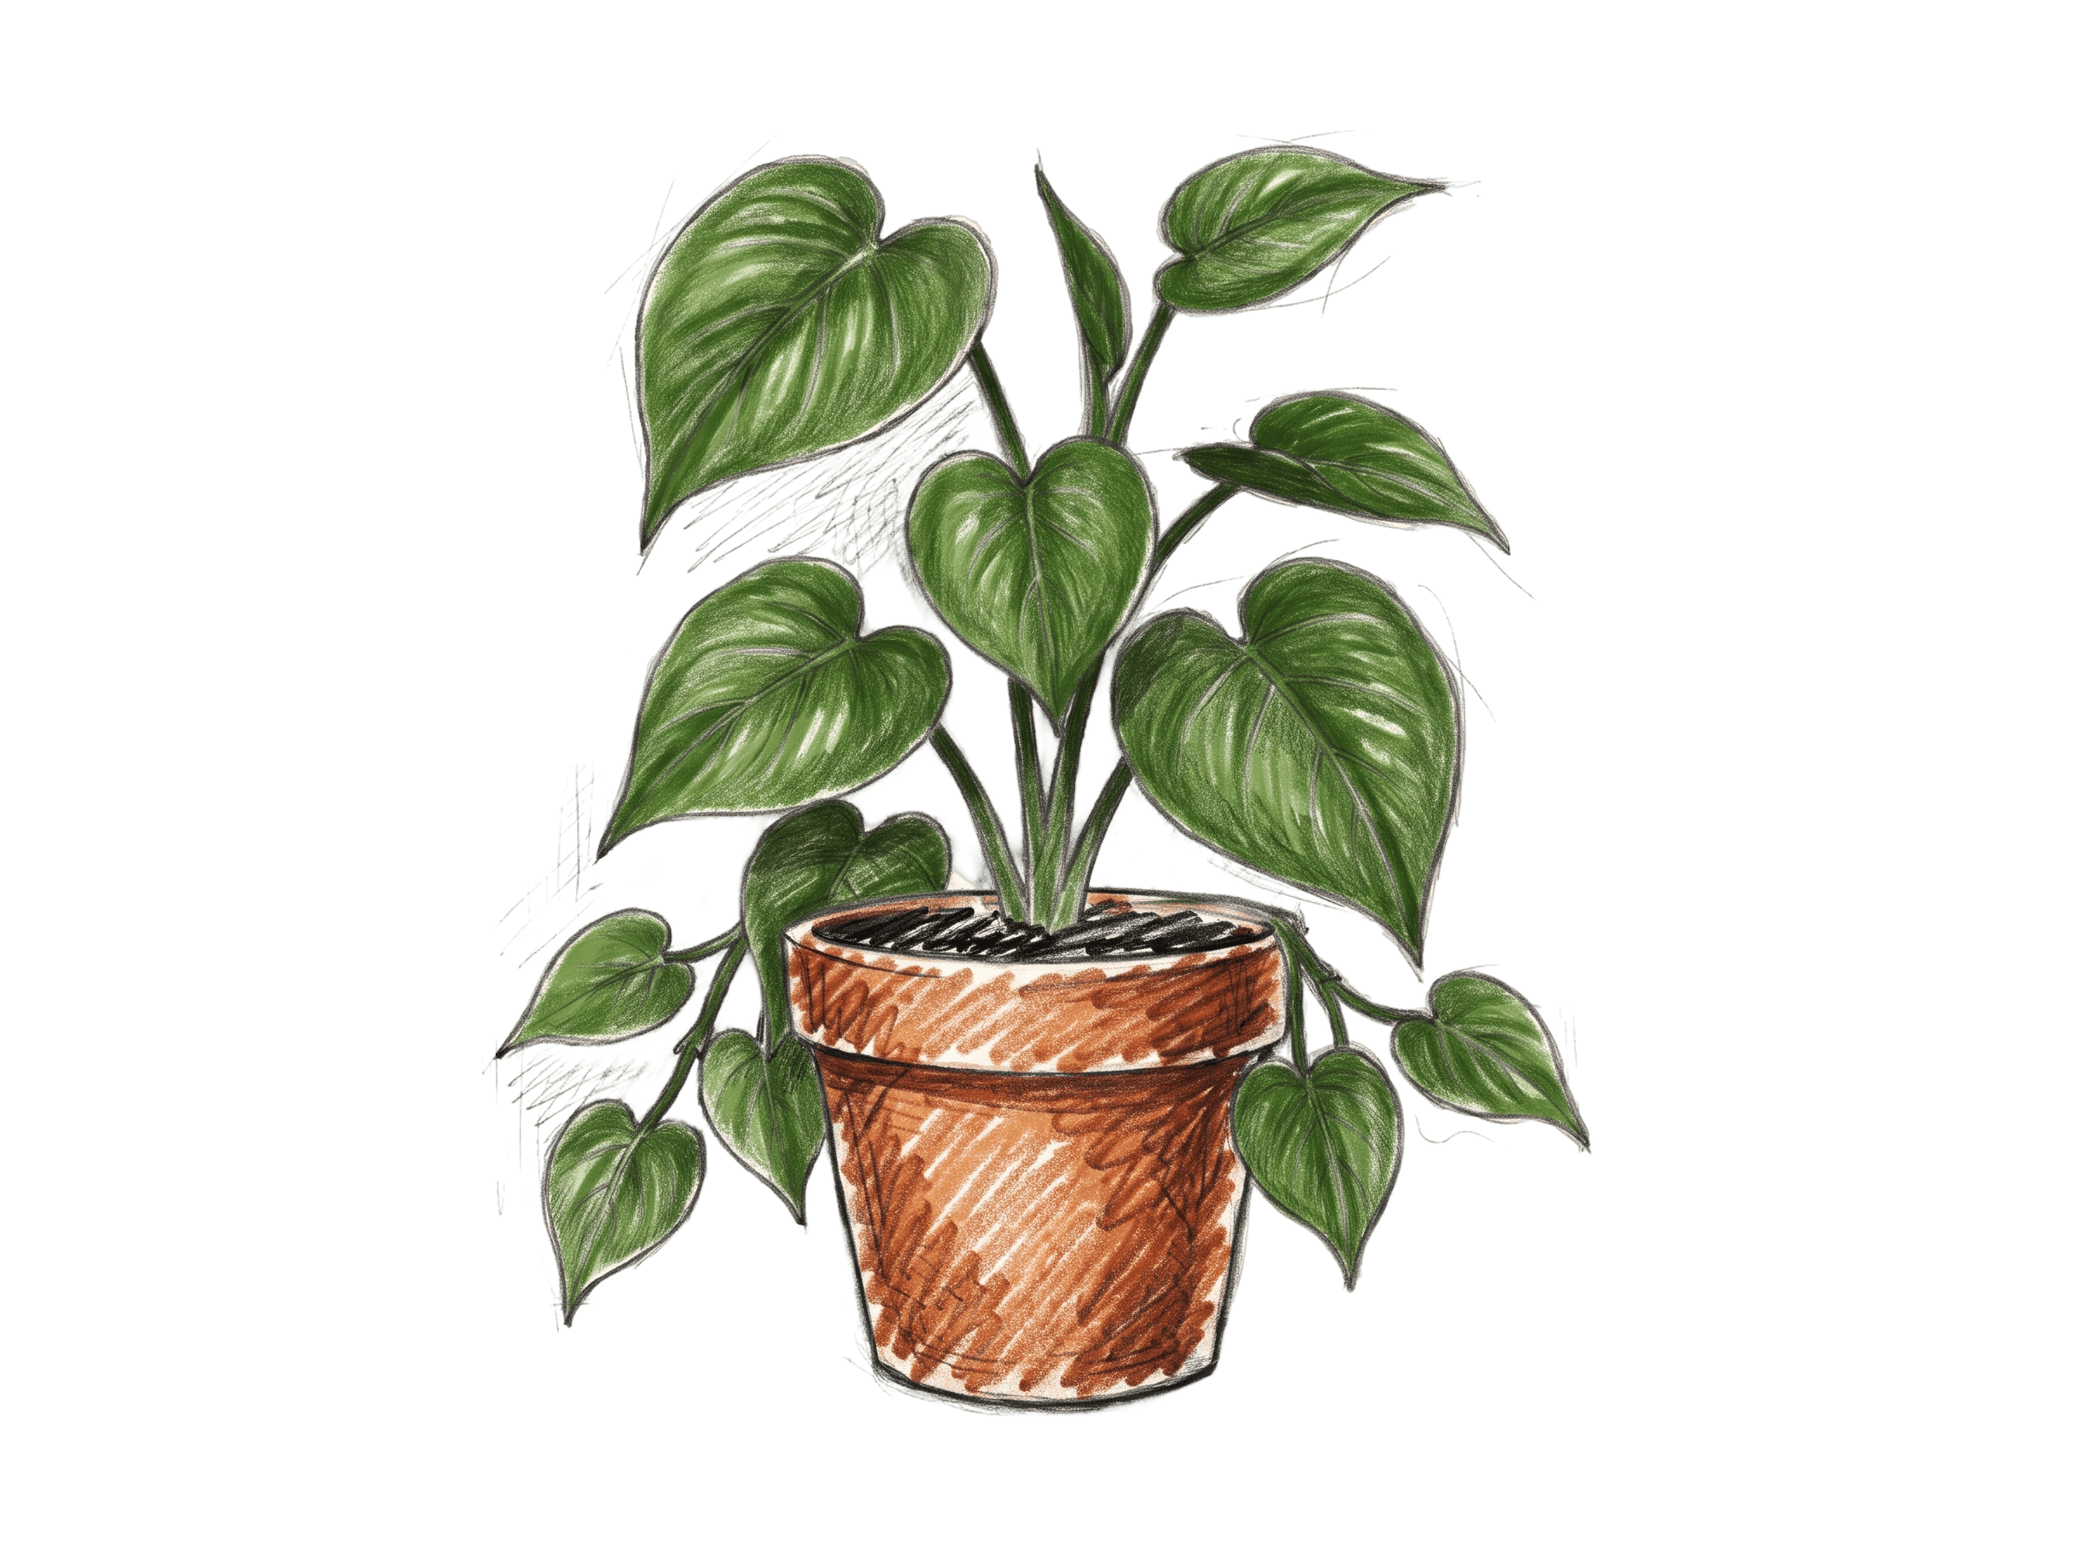
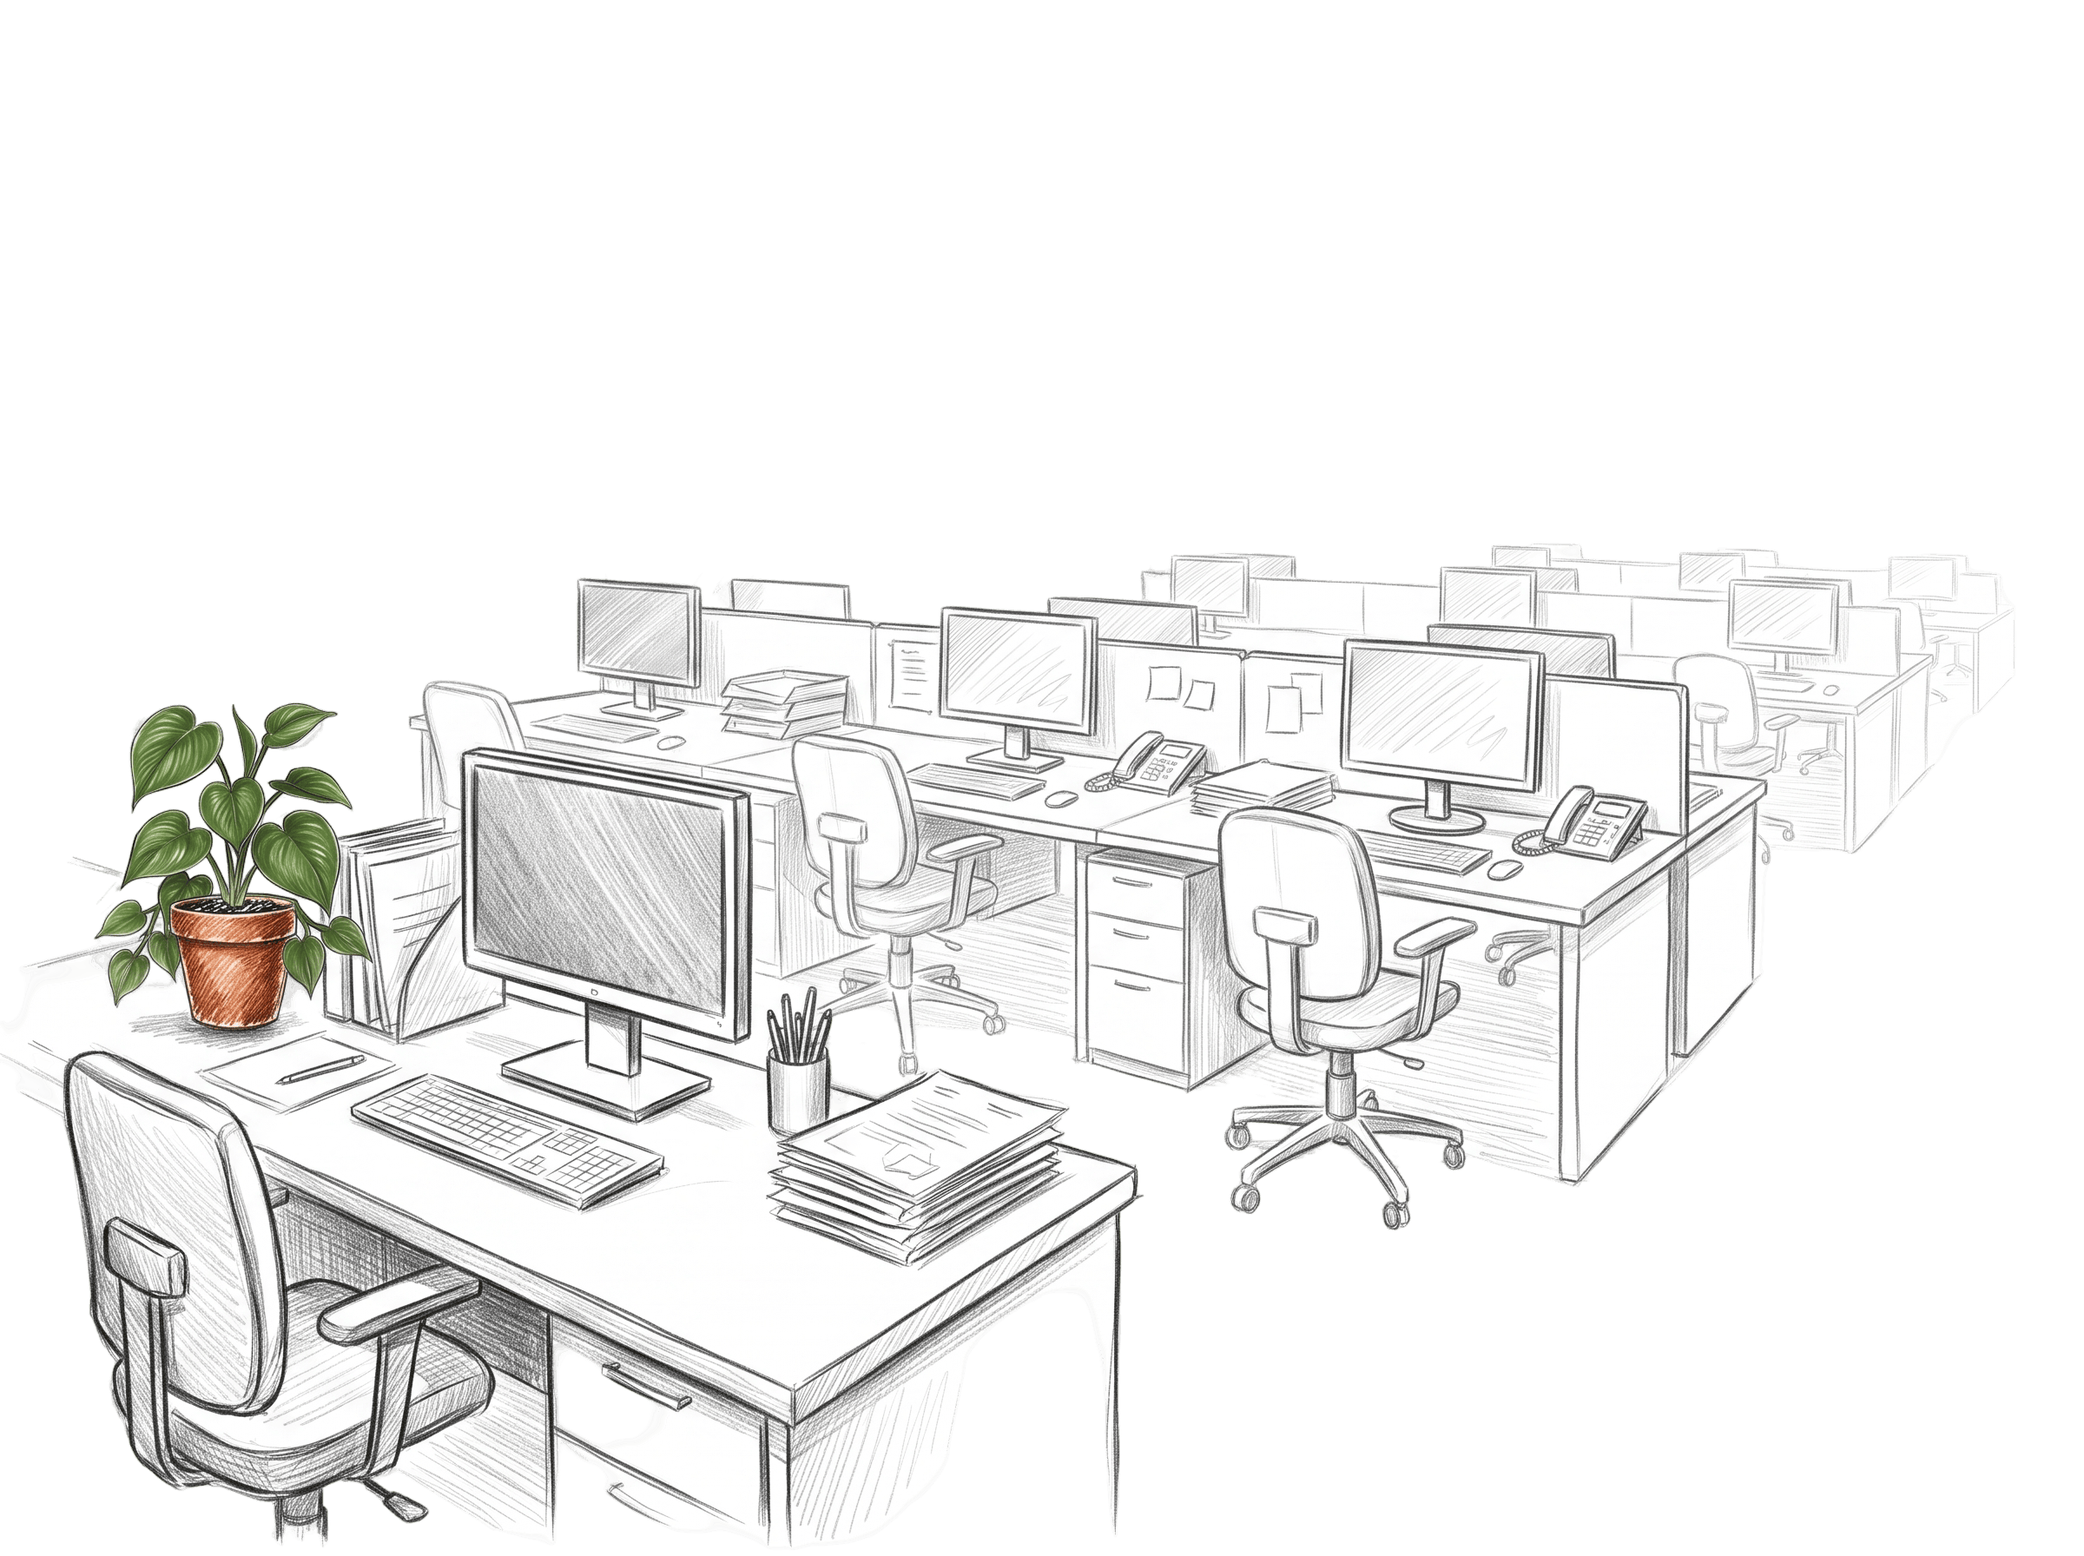
feat: add landing page view, hero components, and global styles

diff --git a/src/features/landing/components/OrganicTextReveal.tsx b/src/features/landing/components/OrganicTextReveal.tsx
@@ -1,7 +1,7 @@
 'use client';
 
-import React, { useEffect, useMemo, useState } from 'react';
-import { useAnimate, useReducedMotion, stagger, type AnimationPlaybackControls } from 'framer-motion';
+import React, { useMemo } from 'react';
+import { motion, useReducedMotion, type Variants } from 'framer-motion';
 
 export type WordToken = {
   raw: string;
@@ -11,9 +11,10 @@ export type WordToken = {
 };
 
 export type TimelineConfig = {
-  targetDuration?: number; // Target total sequence duration in seconds (default: 3.5s)
-  charDuration?: number;   // Single character fade-in duration (default: 0.3s)
-  charStagger?: number;    // Stagger delay between characters
+  targetDuration?: number; // Target total sequence duration in seconds (default: 1.5s)
+  charDuration?: number;   // Single character fade-in duration (default: 0.15s)
+  charStagger?: number;    // Stagger delay between characters (default: 0.03s)
+  staggerChildren?: number;// Stagger delay alias
   totalDuration?: number;  // Backwards-compatible alias for targetDuration
   totalChars?: number;     // Optional character count
 };
@@ -32,15 +33,15 @@ export type AnimationTimeline = {
 /**
  * Calculates dynamic character-by-character fade-in timeline:
  * - Each character starts at opacity: 0 and simply fades in to opacity: 1 (no blur).
- * - Characters stagger smoothly from right to left (RTL).
- * - Total duration reveals smoothly over about 3 to 4 seconds (default: 3.5s).
+ * - Characters stagger smoothly with a fast delay (0.025s - 0.03s).
+ * - Completes rapidly in about 1.5 seconds.
  */
 export function calculateRevealTimeline(
   wordInput: number | WordToken[] | number[],
   config: TimelineConfig = {}
 ): AnimationTimeline {
-  const targetDuration = config.targetDuration ?? config.totalDuration ?? 3.5;
-  const charDuration = config.charDuration ?? 0.3;
+  const targetDuration = config.targetDuration ?? config.totalDuration ?? 1.5;
+  const charDuration = config.charDuration ?? 0.15;
 
   let wordCount = 0;
   let totalChars = 0;
@@ -68,8 +69,8 @@ export function calculateRevealTimeline(
       totalChars: 0,
       wordCount: 0,
       charDuration,
-      charStagger: 0.1,
-      staggerChildren: 0.1,
+      charStagger: 0.03,
+      staggerChildren: 0.03,
       calculatedTotalDuration: 0,
     };
   }
@@ -87,10 +88,14 @@ export function calculateRevealTimeline(
     };
   }
 
-  let charStagger = config.charStagger;
+  let charStagger = config.charStagger ?? config.staggerChildren;
   if (charStagger === undefined) {
-    const idealStagger = (targetDuration - charDuration) / (totalChars - 1);
-    charStagger = Math.max(0.04, Math.min(0.25, idealStagger));
+    if (config.targetDuration !== undefined || config.totalDuration !== undefined) {
+      charStagger = Math.max(0.025, Math.min(0.1, (targetDuration - charDuration) / (totalChars - 1)));
+    } else {
+      // Fast, snappy typing default (0.03s per character)
+      charStagger = 0.03;
+    }
   }
 
   const calculatedTotalDuration = (totalChars - 1) * charStagger + charDuration;
@@ -141,8 +146,33 @@ type OrganicTextRevealProps = {
   className?: string;
   as?: 'h1' | 'h2' | 'h3' | 'h4' | 'p' | 'span' | 'div';
   highlightWord?: string | null;
-  targetDuration?: number; // Target total sequence duration (default: ~3.5s)
-  charStagger?: number;
+  targetDuration?: number; // Target total sequence duration (default: ~1.5s)
+  charStagger?: number;    // Stagger delay per character (default: 0.03s)
+  staggerChildren?: number;// Stagger delay alias
+};
+
+const containerVariants: Variants = {
+  hidden: { opacity: 1 },
+  visible: (staggerDelay: number = 0.03) => ({
+    opacity: 1,
+    transition: {
+      staggerChildren: staggerDelay,
+      delayChildren: 0.02,
+    },
+  }),
+};
+
+const charVariants: Variants = {
+  hidden: {
+    opacity: 0,
+  },
+  visible: {
+    opacity: 1,
+    transition: {
+      duration: 0.15,
+      ease: 'easeOut',
+    },
+  },
 };
 
 export default function OrganicTextReveal({
@@ -150,12 +180,11 @@ export default function OrganicTextReveal({
   className = 'mt-6 text-3xl sm:text-4xl lg:text-5xl xl:text-6xl font-black leading-tight break-words max-w-full text-soil-900 dark:text-dust-50 text-center lg:text-start',
   as: Component = 'h1',
   highlightWord = 'جان',
-  targetDuration = 3.5,
+  targetDuration = 1.5,
   charStagger,
+  staggerChildren: propStaggerChildren,
 }: OrganicTextRevealProps) {
   const shouldReduceMotion = useReducedMotion();
-  const [scope, animate] = useAnimate();
-  const [isDone, setIsDone] = useState(false);
 
   const words = useMemo(
     () => splitTextIntoWordsAndChars(text, highlightWord),
@@ -166,52 +195,10 @@ export default function OrganicTextReveal({
     () =>
       calculateRevealTimeline(words, {
         targetDuration,
-        charStagger,
+        charStagger: charStagger ?? propStaggerChildren,
       }),
-    [words, targetDuration, charStagger]
+    [words, targetDuration, charStagger, propStaggerChildren]
   );
-
-  useEffect(() => {
-    if (shouldReduceMotion) return;
-
-    let isMounted = true;
-    let controls: AnimationPlaybackControls | null = null;
-
-    // Set initial opacity to 0
-    animate('span[data-char]', { opacity: 0 }, { duration: 0 });
-
-    const startTypingFadeIn = () => {
-      if (!scope.current || !isMounted) return;
-
-      controls = animate(
-        'span[data-char]',
-        { opacity: 1 },
-        {
-          duration: timeline.charDuration,
-          delay: stagger(timeline.charStagger),
-          ease: 'easeOut',
-        }
-      );
-
-      controls
-        .then(() => {
-          if (isMounted) setIsDone(true);
-        })
-        .catch(() => {});
-    };
-
-    const timer = setTimeout(startTypingFadeIn, 40);
-
-    return () => {
-      isMounted = false;
-      clearTimeout(timer);
-      if (controls) {
-        try {
-          controls.stop();
-        } catch {}
-      }
-    };
-  }, [shouldReduceMotion, scope, timeline]);
 
   // Fallback for reduced motion: display crisp final text immediately
   if (shouldReduceMotion) {
@@ -237,9 +224,14 @@ export default function OrganicTextReveal({
     );
   }
 
+  const MotionComponent = motion[Component] as typeof motion.h1;
+
   return (
-    <Component
-      ref={scope}
+    <MotionComponent
+      variants={containerVariants}
+      initial="hidden"
+      animate="visible"
+      custom={timeline.charStagger}
       className={className}
       aria-label={text}
       dir="rtl"
@@ -256,14 +248,14 @@ export default function OrganicTextReveal({
               }`}
             >
               {word.chars.map((char, charIdx) => (
-                <span
+                <motion.span
                   key={charIdx}
+                  variants={charVariants}
                   data-char
                   className="inline"
-                  style={{ opacity: isDone ? 1 : 0 }}
                 >
                   {char}
-                </span>
+                </motion.span>
               ))}
             </span>
             {wordIdx < words.length - 1 && (
@@ -272,6 +264,6 @@ export default function OrganicTextReveal({
           </React.Fragment>
         ))}
       </span>
-    </Component>
+    </MotionComponent>
   );
 }

diff --git a/tests/organic-text-reveal.test.ts b/tests/organic-text-reveal.test.ts
@@ -82,38 +82,33 @@ test('OrganicTextReveal - splitTextIntoWordsAndChars', async (t) => {
   });
 });
 
-test('OrganicTextReveal - calculateRevealTimeline (clean fade-in typing effect)', async (t) => {
-  await t.test('calculates 3-to-4-second total duration (3.5s target) for default 5-word title', () => {
+test('OrganicTextReveal - calculateRevealTimeline (fast clean fade-in typing effect)', async (t) => {
+  await t.test('calculates fast ~1.5-second total duration (1.5s target) and fast stagger delay for default 5-word title', () => {
     const text = 'به فضاهای خالی، جان بدهیم.';
     const words = splitTextIntoWordsAndChars(text);
     const timeline = calculateRevealTimeline(words);
 
     assert.equal(timeline.wordCount, 5);
     assert.equal(timeline.totalChars, 22);
-    // Target duration is 3.5s (within 3 to 4 seconds)
-    assert.equal(timeline.targetDuration, 3.5);
-    assert.ok(timeline.calculatedTotalDuration >= 3.0 && timeline.calculatedTotalDuration <= 4.0);
-    // Character duration is 0.3s per character
-    assert.equal(timeline.charDuration, 0.3);
-    // Character stagger smoothly distributes characters
-    assert.ok(timeline.charStagger >= 0.05 && timeline.charStagger <= 0.20);
-    assert.equal(timeline.staggerChildren, timeline.charStagger);
+    // Target duration defaults to ~1.5s
+    assert.equal(timeline.targetDuration, 1.5);
+    // Default fast stagger delay is 0.03s per character
+    assert.equal(timeline.charStagger, 0.03);
+    assert.equal(timeline.staggerChildren, 0.03);
+    assert.equal(timeline.charDuration, 0.15);
+    // Fast sequence completes rapidly (around 0.78s to 1.5s)
+    assert.ok(timeline.calculatedTotalDuration >= 0.7 && timeline.calculatedTotalDuration <= 1.5);
   });
 
-  await t.test('dynamically adapts stagger so total duration is within 3 to 4 seconds', () => {
-    const shortText = splitTextIntoWordsAndChars('خاک و گیاه'); // 8 chars
-    const shortTimeline = calculateRevealTimeline(shortText);
-
-    assert.equal(shortTimeline.wordCount, 3);
-    assert.equal(shortTimeline.totalChars, 8);
-    assert.ok(shortTimeline.calculatedTotalDuration >= 1.5 && shortTimeline.calculatedTotalDuration <= 4.0);
-
+  await t.test('completes longer titles in about 1.5 seconds with fast 0.025-0.03s stagger', () => {
     const longText = splitTextIntoWordsAndChars('طراحی و ساخت انواع گلدانهای بتنی، سرامیکی و مینیمال برای فضاهای سبز');
     const longTimeline = calculateRevealTimeline(longText);
 
     assert.equal(longTimeline.wordCount, 12);
     assert.ok(longTimeline.totalChars > 40);
-    assert.ok(longTimeline.calculatedTotalDuration >= 2.5);
+    assert.equal(longTimeline.charStagger, 0.03);
+    // ~57 chars * 0.03s ≈ 1.8s
+    assert.ok(longTimeline.calculatedTotalDuration >= 1.2 && longTimeline.calculatedTotalDuration <= 2.0);
   });
 
   await t.test('handles 1-character and 1-word edge cases gracefully', () => {
@@ -123,7 +118,7 @@ test('OrganicTextReveal - calculateRevealTimeline (clean fade-in typing effect)'
     assert.equal(timeline.wordCount, 1);
     assert.equal(timeline.totalChars, 1);
     assert.equal(timeline.charStagger, 0);
-    assert.equal(timeline.calculatedTotalDuration, 0.3);
+    assert.equal(timeline.calculatedTotalDuration, 0.15);
   });
 
   await t.test('handles 0 or negative inputs gracefully', () => {
@@ -141,15 +136,16 @@ test('OrganicTextReveal - calculateRevealTimeline (clean fade-in typing effect)'
   await t.test('supports custom targetDuration and charStagger configurations', () => {
     const words = splitTextIntoWordsAndChars('یک دو سه چهار');
     const timeline = calculateRevealTimeline(words, {
-      targetDuration: 4.0,
-      charDuration: 0.25,
-      charStagger: 0.1,
+      targetDuration: 1.5,
+      charDuration: 0.15,
+      charStagger: 0.025,
     });
 
-    assert.equal(timeline.charDuration, 0.25);
-    assert.equal(timeline.charStagger, 0.1);
-    assert.equal(timeline.totalDuration, 4.0);
-    // For 10 chars: (10 - 1) * 0.1 + 0.25 = 0.9 + 0.25 = 1.15
-    assert.ok(Math.abs(timeline.calculatedTotalDuration - 1.15) < 1e-9);
+    assert.equal(timeline.charDuration, 0.15);
+    assert.equal(timeline.charStagger, 0.025);
+    assert.equal(timeline.staggerChildren, 0.025);
+    assert.equal(timeline.totalDuration, 1.5);
+    // For 10 chars: (10 - 1) * 0.025 + 0.15 = 0.225 + 0.15 = 0.375
+    assert.ok(Math.abs(timeline.calculatedTotalDuration - 0.375) < 1e-9);
   });
 });

diff --git a/src/features/landing/components/HeroImage.tsx b/src/features/landing/components/HeroImage.tsx
@@ -1,23 +1,22 @@
-import Image from 'next/image';
+import Image from "next/image";
 
 type HeroImageProps = {
   className?: string;
 };
 
-export default function HeroImage({ className = '' }: HeroImageProps) {
+export default function HeroImage({ className = "" }: HeroImageProps) {
   return (
     <div
-      className={`overflow-hidden w-full max-w-[500px] lg:max-w-[800px] mx-auto flex items-center justify-center bg-transparent pointer-events-none select-none ${className}`}
+      className={`w-full max-w-[500px] lg:max-w-[800px] mx-auto flex items-center justify-center bg-transparent pointer-events-none select-none ${className}`}
     >
       <Image
-        src="/images/botanical-sketch.webp"
+        src="/images/botanical-sketch.png"
         alt="طراحی گیاهشناسی و گلدان پات استور"
         width={800}
         height={600}
         priority
-        className="hero-draw-reveal w-full h-auto object-contain max-w-[500px] lg:max-w-[800px] mx-auto"
+        className="w-full h-auto object-contain max-w-[500px] lg:max-w-[800px] mx-auto"
       />
     </div>
   );
 }
-

diff --git a/src/app/globals.css b/src/app/globals.css
@@ -170,31 +170,6 @@
     transform: none !important;
     transition: none !important;
   }
-
-  .hero-draw-reveal {
-    animation: none !important;
-    clip-path: inset(0% 0 0 0) !important;
-    transform: scale(1) !important;
-  }
-}
-
-/* ==========================================================================
-   Hero Botanical Sketch Draw Reveal Animation
-   ========================================================================== */
-@keyframes draw-reveal {
-  0% {
-    clip-path: inset(100% 0 0 0);
-    transform: scale(0.95);
-  }
-  100% {
-    clip-path: inset(0% 0 0 0);
-    transform: scale(1);
-  }
-}
-
-.hero-draw-reveal {
-  animation: draw-reveal 4.5s ease-out forwards;
-  will-change: clip-path, transform;
 }
 
 /* ==========================================================================

diff --git a/src/features/landing/components/LandingPageView.tsx b/src/features/landing/components/LandingPageView.tsx
@@ -92,7 +92,7 @@ export default function LandingPageView({
           </div>
 
           {/* Block B: IMAGE - Appears 2nd on mobile (below subtitle), Col 6-12 Row 1-2 on desktop */}
-          <div className="order-2 mt-6 lg:mt-0 lg:col-span-7 lg:col-start-6 lg:row-start-1 lg:row-span-2 lg:self-center relative z-10 pointer-events-none select-none flex items-center justify-center w-full max-w-[500px] lg:max-w-[800px] mx-auto overflow-hidden">
+          <div className="order-2 mt-6 lg:mt-0 lg:col-span-7 lg:col-start-6 lg:row-start-1 lg:row-span-2 lg:self-center relative z-10 pointer-events-none select-none flex items-center justify-center w-full max-w-[500px] lg:max-w-[800px] mx-auto">
             <HeroImage />
           </div>
 
